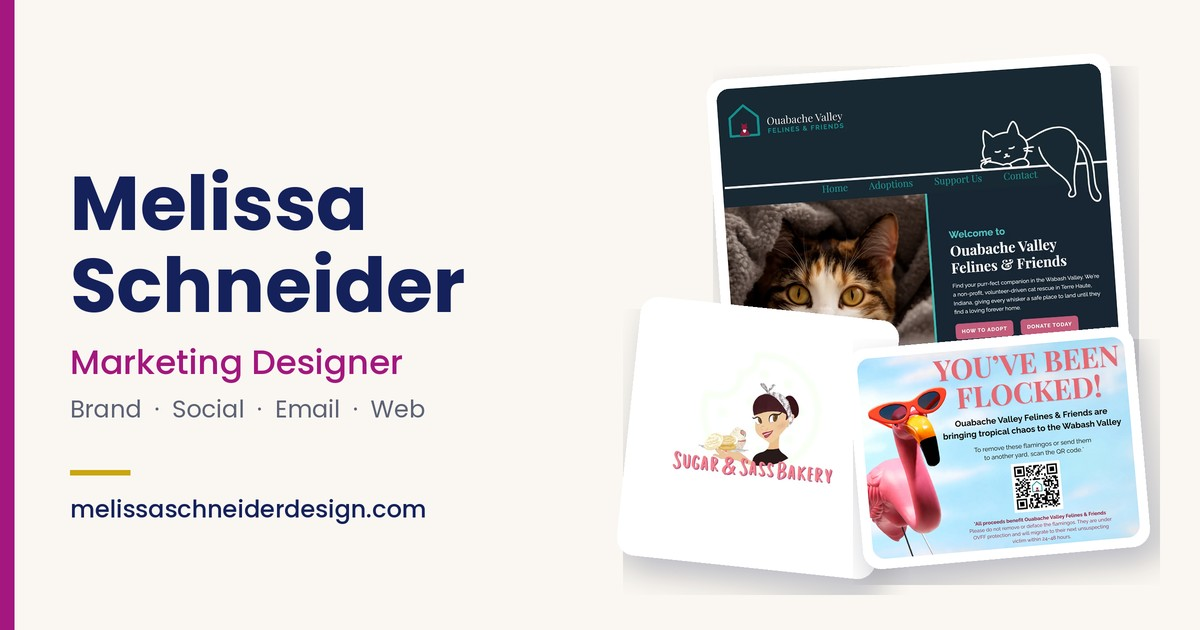
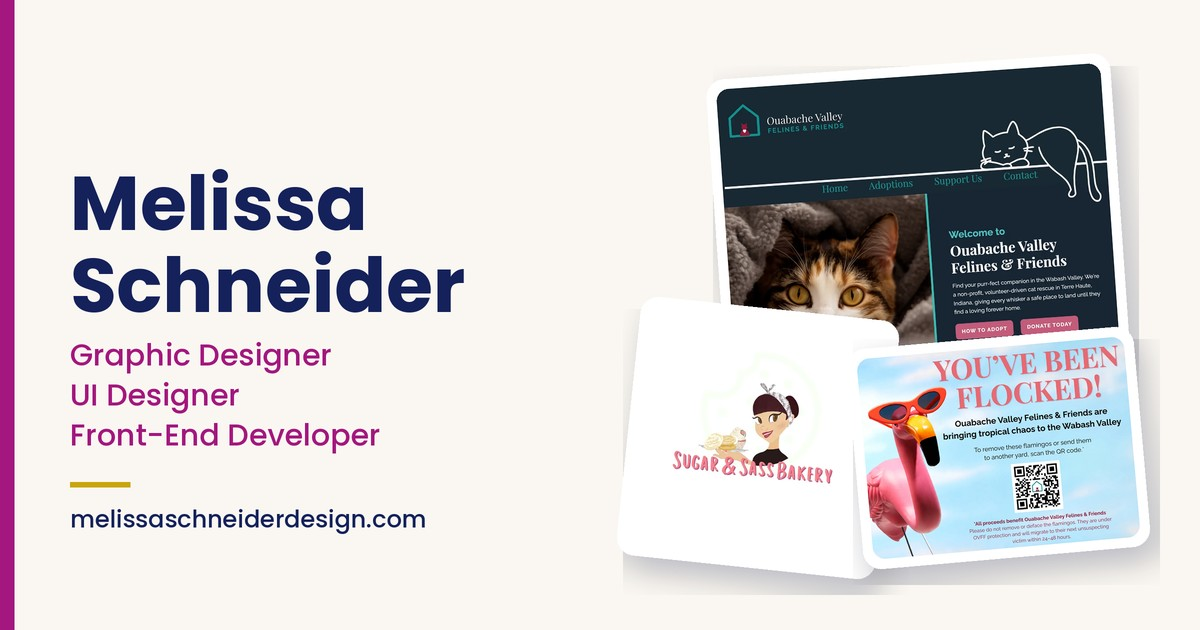
Add files via upload

Changed region(s): [[0.0617, 0.5429, 0.37, 0.8444], [0.3083, 0.6333, 0.37, 0.6635]]

diff --git a/index.html b/index.html
@@ -3,8 +3,8 @@
 <head>
   <meta charset="utf-8">
   <meta name="viewport" content="width=device-width, initial-scale=1">
-  <title>Melissa Schneider · Marketing Designer</title>
-  <meta name="description" content="Melissa Schneider is a marketing designer and front-end developer who designs email campaigns, social media, print and websites that get people to act.">
+  <title>Melissa Schneider · Graphic Designer | UI Designer | Front-End Developer</title>
+  <meta name="description" content="Melissa Schneider is a graphic designer, UI designer and front-end developer who designs brands, email campaigns, social media, print and websites that get people to act.">
   <link rel="preconnect" href="https://fonts.googleapis.com">
   <link rel="preconnect" href="https://fonts.gstatic.com" crossorigin>
   <link href="https://fonts.googleapis.com/css2?family=Poppins:wght@500;600;700&family=Inter:wght@400;500;600&display=swap" rel="stylesheet">
@@ -19,14 +19,14 @@
   <meta property="og:type" content="website">
   <meta property="og:site_name" content="Melissa Schneider Design">
   <meta property="og:url" content="https://www.melissaschneiderdesign.com/">
-  <meta property="og:title" content="Melissa Schneider · Marketing Designer">
+  <meta property="og:title" content="Melissa Schneider · Graphic Designer | UI Designer | Front-End Developer">
   <meta property="og:description" content="Brand identity, social media, email and web design for small businesses and nonprofits. See the case studies.">
   <meta property="og:image" content="https://www.melissaschneiderdesign.com/og-image.jpg">
   <meta property="og:image:width" content="1200">
   <meta property="og:image:height" content="630">
-  <meta property="og:image:alt" content="Melissa Schneider, Marketing Designer, with samples of her brand, web and campaign work">
+  <meta property="og:image:alt" content="Melissa Schneider, Graphic Designer, UI Designer and Front-End Developer, with samples of her brand, web and campaign work">
   <meta name="twitter:card" content="summary_large_image">
-  <meta name="twitter:title" content="Melissa Schneider · Marketing Designer">
+  <meta name="twitter:title" content="Melissa Schneider · Graphic Designer | UI Designer | Front-End Developer">
   <meta name="twitter:description" content="Brand identity, social media, email and web design for small businesses and nonprofits.">
   <meta name="twitter:image" content="https://www.melissaschneiderdesign.com/og-image.jpg">
 </head>
@@ -52,7 +52,7 @@
   <!-- HERO -->
   <section class="hero" id="top">
     <div class="wrap">
-      <p class="eyebrow">Marketing Designer · Front-End Developer</p>
+      <p class="eyebrow">Graphic Designer · UI Designer · Front-End Developer</p>
       <h1>I design emails, social posts and websites that get people to <em>take the next step.</em></h1>
       <p class="lead">I lead marketing design for a 16-location roofing franchise, co-own the design studio Haute eLeMent, and hold certifications in UI design and front-end development.</p>
       <div class="hero-actions">
@@ -396,7 +396,7 @@
         <figure class="he-guide"><button class="zoom" data-full="images/he-brand.webp"><img src="images/he-brand.webp" alt="Haute eLeMent brand identity guide: logo suite, color palette, typography and brand essence" loading="lazy" width="1000" height="2583"></button><figcaption>Brand guide: logo suite, colors, type &amp; brand essence (click to see it all)</figcaption></figure>
       </div>
 
-      <h3>Website <span class="badge">In progress</span></h3>
+      <h3>Website <a class="badge" href="https://haute-element.com/" target="_blank" rel="noopener">Live: haute-element.com</a></h3>
       <div class="ss-site">
         <figure><button class="zoom" data-full="images/he-site-desktop.webp"><img src="images/he-site-desktop.webp" alt="Haute eLeMent website on desktop: Bold brands. Elevated marketing. with Book a Free Discovery Call button" loading="lazy" width="1600" height="1144"></button><figcaption>Desktop</figcaption></figure>
         <figure class="ss-phone"><button class="zoom" data-full="images/he-site-mobile.webp"><span class="phone"><img src="images/he-site-mobile.webp" alt="Haute eLeMent website on a phone" loading="lazy" width="464" height="900"></span></button><figcaption>Phone</figcaption></figure>
